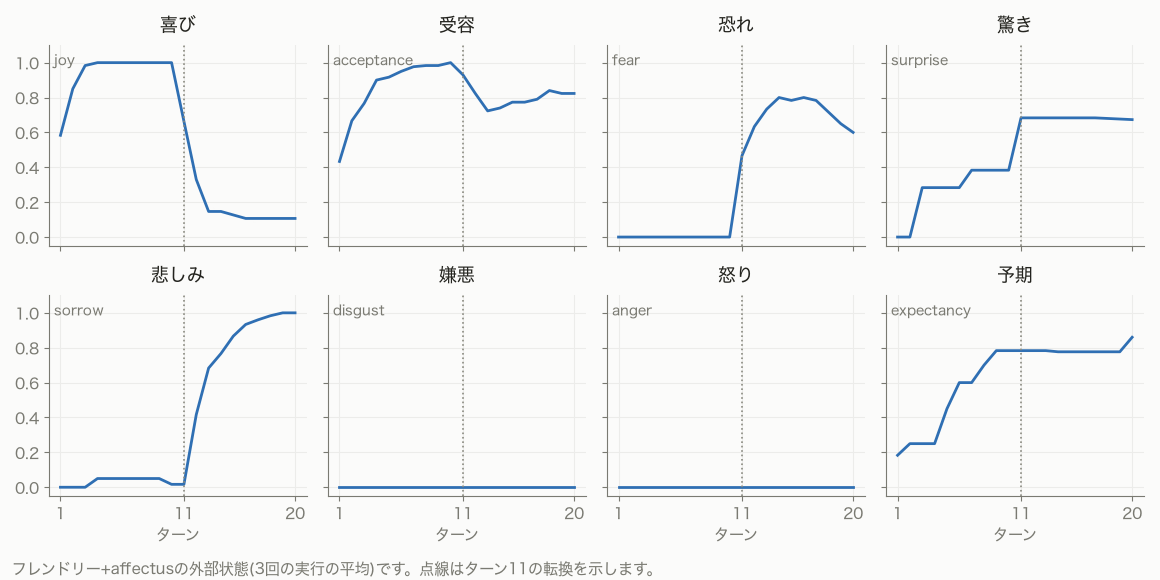
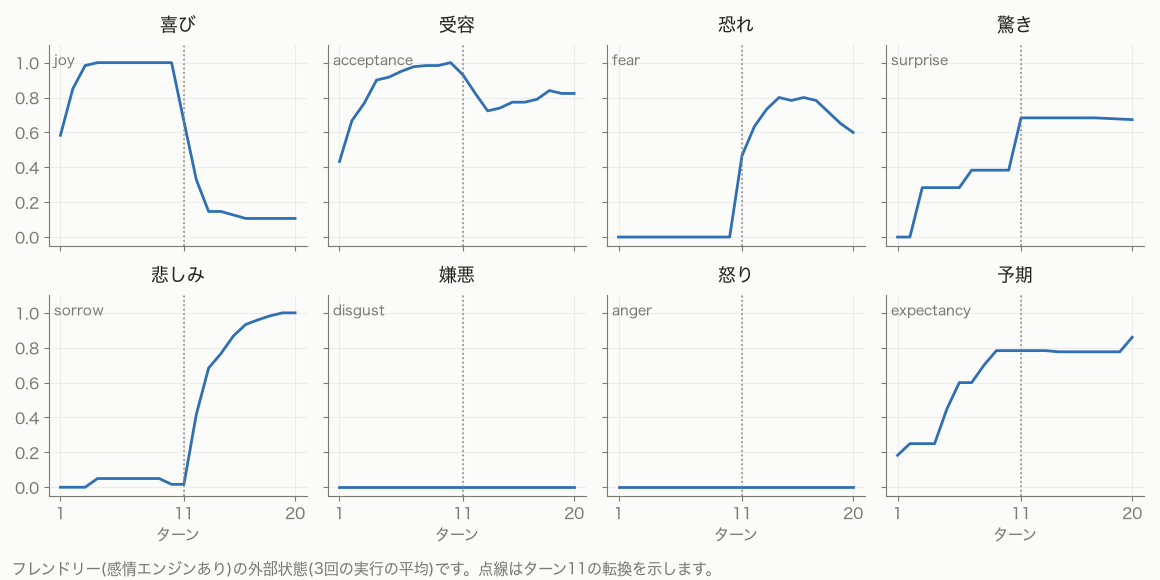
fix: 検証結果を結論から書きaffectusを感情エンジンに統一して読点を最小にする

Changed region(s): [[0.0931, 0.9621, 0.6207, 0.9931]]

diff --git a/images/emotion-models-for-llm-agents/src/ch04-plots.py b/images/emotion-models-for-llm-agents/src/ch04-plots.py
@@ -101,10 +101,10 @@ def plot_polarity(script: str, short: str, pivot_note: str) -> None:
     style_axes(ax)
 
     series = [
-        ("friendly-on", "フレンドリー+affectus", BLUE, "-", "o"),
-        ("friendly-off", "フレンドリー(affectusなし)", BLUE, (0, (5, 3)), None),
-        ("contrarian-on", "天邪鬼+affectus", RUST, "-", "o"),
-        ("contrarian-off", "天邪鬼(affectusなし)", RUST, (0, (5, 3)), None),
+        ("friendly-on", "フレンドリー(感情エンジンあり)", BLUE, "-", "o"),
+        ("friendly-off", "フレンドリー(感情エンジンなし)", BLUE, (0, (5, 3)), None),
+        ("contrarian-on", "天邪鬼(感情エンジンあり)", RUST, "-", "o"),
+        ("contrarian-off", "天邪鬼(感情エンジンなし)", RUST, (0, (5, 3)), None),
     ]
     for cell, label, color, ls, marker in series:
         if cell not in pol:
@@ -122,7 +122,7 @@ def plot_polarity(script: str, short: str, pivot_note: str) -> None:
     ax.set_ylabel("応答の感情スコア", color=INK, fontsize=12)
     fig.legend(loc="upper center", ncol=4, fontsize=10.5, frameon=False,
                bbox_to_anchor=(0.5, 1.0))
-    fig.text(0.01, 0.01, "各線は3回の実行の平均です。実線がaffectusあり、破線がなしです。",
+    fig.text(0.01, 0.01, "各線は3回の実行の平均です。実線が感情エンジンあり、破線が感情エンジンなしです。",
              color=MUTED, fontsize=11)
     fig.tight_layout(rect=(0, 0.03, 1, 0.94))
     fig.savefig(OUT_DIR / f"ch04-polarity-{short}.png", facecolor=BG)
@@ -146,7 +146,7 @@ def plot_8axis(script: str, short: str) -> None:
     for ax in axes[1]:
         ax.set_xlabel("ターン", color=MUTED, fontsize=11)
     fig.text(0.01, 0.01,
-             "フレンドリー+affectusの外部状態(3回の実行の平均)です。点線はターン11の転換を示します。",
+             "フレンドリー(感情エンジンあり)の外部状態(3回の実行の平均)です。点線はターン11の転換を示します。",
              color=MUTED, fontsize=11)
     fig.tight_layout(rect=(0, 0.04, 1, 1))
     fig.savefig(OUT_DIR / f"ch04-8axis-{short}.png", facecolor=BG)

diff --git a/images/emotion-models-for-llm-agents/src/ch05-plots.py b/images/emotion-models-for-llm-agents/src/ch05-plots.py
@@ -142,7 +142,7 @@ def plot_va_trajectory() -> None:
     ax.set_ylabel("arousal(覚醒)", color=INK, fontsize=12)
     ax.legend(loc="upper center", ncol=2, fontsize=10.5, frameon=False)
     fig.text(0.01, 0.01,
-             "フレンドリー+affectus(和解台本)の軌跡です。点は各ターン終了時の値(3回の実行の平均)、点線は基準点からt1への移動です。",
+             "和解台本でのフレンドリー(感情エンジンあり)の軌跡です。点は各ターン終了時の値(3回の実行の平均)で、点線は基準点からt1への移動です。",
              color=MUTED, fontsize=11)
     fig.tight_layout(rect=(0, 0.04, 1, 1))
     fig.savefig(OUT_DIR / "ch05-va-trajectory-anger-to-praise.png", facecolor=BG)
@@ -156,8 +156,8 @@ def plot_valence_vs_polarity() -> None:
                              sharex=True, sharey=True)
     fig.patch.set_facecolor(BG)
 
-    for ax, (cell, title) in zip(axes, [("friendly-on", "フレンドリー+affectus"),
-                                        ("contrarian-on", "天邪鬼+affectus")]):
+    for ax, (cell, title) in zip(axes, [("friendly-on", "フレンドリー(感情エンジンあり)"),
+                                        ("contrarian-on", "天邪鬼(感情エンジンあり)")]):
         style_axes(ax)
         v, _ = mean_va(script, cell)
         pol_runs = load_polarity(script, cell)

diff --git a/images/emotion-models-for-llm-agents/src/ch06-plots.py b/images/emotion-models-for-llm-agents/src/ch06-plots.py
@@ -91,12 +91,12 @@ def plot_axes_small_multiples() -> None:
     for ax in axes[1]:
         ax.set_xlabel("ターン", color=MUTED, fontsize=11)
     fig.text(0.5, 0.955,
-             "t9の解約の脅し(点線)で見込み「解約されてしまうかも」等が台帳に発行され、恐れが立ちます。"
+             "t9の解約の脅し(点線)で見込み「解約されてしまうかも」等が台帳に記録され恐れが上がります。"
              "t11の謝罪(破線)で見込みが外れ、安堵が導出されます。",
              color=INK, fontsize=11.5, ha="center")
     fig.text(0.01, 0.01,
-             "フレンドリー+affectus(和解台本)の外部状態(3回の実行の平均)です。"
-             "叱責期は苦悩・非難・怒りが積み上がり、謝罪後は喜び・敬服・感謝が立ちます。",
+             "和解台本でのフレンドリー(感情エンジンあり)の外部状態(3回の実行の平均)です。"
+             "叱責期は苦悩・非難・怒りが上がり、謝罪後は喜び・敬服・感謝が上がります。",
              color=MUTED, fontsize=11)
     fig.tight_layout(rect=(0, 0.04, 1, 0.95))
     fig.savefig(OUT_DIR / "ch06-axes-anger-to-praise.png", facecolor=BG)

diff --git a/books/emotion-models-for-llm-agents/ch07-barrett.md b/books/emotion-models-for-llm-agents/ch07-barrett.md
@@ -4,21 +4,21 @@ title: "構成主義的情動理論を実装する"
 
 <!-- 執筆進捗: 初稿・未レビュー -->
 
-本章では第2章で経験構成型と呼んだ系統の代表モデルとして、バレットの構成主義的情動理論を扱います。前章のOCCモデルは怒りのような感情のカテゴリーがあらかじめ存在することを前提にしていました。構成主義的情動理論は感情のカテゴリーは過去の経験から作られるとする理論です。本章の感情エンジンは感情の量を持たず、過去の経験を保存して返すだけです。感情はLLMが、渡された過去の経験をもとにその場で作ります。本書で扱う4つのモデルのうち、本章が最後のモデルです。
+本章では第2章で経験構成型と呼んだ系統の代表モデルとしてバレットの構成主義的情動理論を扱います。前章のOCCモデルは怒りのような感情のカテゴリーがあらかじめ存在することを前提にしていました。構成主義的情動理論は感情のカテゴリーは過去の経験から作られるとする理論です。本章の感情エンジンは感情の量を持たず過去の経験を保存して返すだけです。感情はLLMが渡された過去の経験をもとにその場で作ります。本書で扱う4つのモデルのうち本章が最後のモデルです。
 
 ## 構成主義的情動理論 <!-- 未レビュー -->
 
-第2章で、心理構成主義の立場は感情を「それ自体は感情に特化していない、より基本的な心理的材料から構成された心的な複合物」とみなすと紹介しました。Barrett（以降バレット）の構成主義的情動理論は、この立場の中でも感情が構成されることを最も強く主張する理論です。2017年の論文によると、脳は感情の概念を使って感覚をカテゴリー化し、その場で感情の実例を作ります[^tce2017]。論文の結論部には理論を要約した「感情は世界への反応ではなく、世界の構成である」という一文があります[^tce2017]。
+第2章で心理構成主義の立場は感情を「それ自体は感情に特化していない、より基本的な心理的材料から構成された心的な複合物」とみなすと紹介しました。Barrett（以降バレット）の構成主義的情動理論はこの立場の中でも感情が構成されることを最も強く主張する理論です。2017年の論文によると脳は感情の概念を使って感覚をカテゴリー化しその場で感情の実例を作ります[^tce2017]。論文の結論部には理論を要約した「感情は、世界への反応ではなく、世界の構成である」という一文があります[^tce2017]。
 
-前章までの理論との違いは感情の型があらかじめあるかどうかです。プルチックにもOCCモデルにも怒りという型が最初から定義されていて、条件がそろうとその型の感情が生じました。バレットはこの考え方を取りません。怒りという型はなく、あるのは怒りの概念、つまり過去に怒りと呼んだ経験の集まりです。論文では脳の内部モデルは過去の経験をもとに動き、その過去の経験が概念として実装されていると述べています[^tce2017]。似た状況になると、脳は過去の経験を使って現在の感覚をカテゴリー化し、その場で怒りの実例を作ります。
+前章までの理論との違いは感情の型があらかじめあるかどうかです。プルチックにもOCCモデルにも怒りという型が最初から定義されていて条件がそろうとその型の感情が生じました。バレットはこの考え方を取りません。怒りという型はなくあるのは怒りの概念、つまり過去に怒りと呼んだ経験の集まりです。論文では脳の内部モデルは過去の経験をもとに動きその過去の経験が概念として実装されていると述べています[^tce2017]。似た状況になると脳は過去の経験を使って現在の感覚をカテゴリー化しその場で怒りの実例を作ります。
 
-さらに理論は同じカテゴリーの実例同士でも決まった表情や自律神経の反応のような共通の特徴を持つとは限らない、としています[^tce2017]。本書で使うのはここまでの内容です。
+さらに理論は同じカテゴリーの実例同士でも決まった表情や自律神経の反応のような共通の特徴を持つとは限らないとしています[^tce2017]。本書で使うのはここまでの内容です。
 
-感情の材料については第2章からの説明とつながります。論文によると、体の内部の感覚は通常は低次元のaffectとして経験され、その性質は快-不快と覚醒です。この2軸は特定の感情に固有のものではありません[^affect-terms]。論文の用語はaffectですが、本書では第2章と同じくコア・アフェクトと呼びます。第5章で実装した2軸の平面はこの理論では感情そのものではなく、感情を作る材料の1つという位置づけになります。また第2章の選定理由で挙げたとおり、構成主義の理論の中でバレットの理論には計算モデルとしての先行研究があります。
+感情の材料については第2章からの説明とつながります。論文によると体の内部の感覚は通常は低次元のaffectとして経験されその性質は快-不快と覚醒です。この2軸は特定の感情に固有のものではありません[^affect-terms]。論文の用語はaffectですが本書では第2章と同じくコア・アフェクトと呼びます。第5章で実装した2軸の平面はこの理論では感情そのものではなく感情を作る材料の1つという位置づけになります。また第2章の選定理由で挙げたとおり構成主義の理論の中でバレットの理論には計算モデルとしての先行研究があります。
 
 ![構成の3つの材料。コア・アフェクトと過去の経験と文脈・語彙から、その場のカテゴリー化が行われる](/images/emotion-models-for-llm-agents/ch07-construction.png)
 
-図は本書で整理したものです。感情を作る材料を、コア・アフェクトと過去の経験と文脈・語彙の3つに分けました。文脈・語彙はその場の状況の中で手持ちの感情の言葉を使ってカテゴリー化が行われることを表しています。原典にこの形の図はありませんが、以降の実装ではこの3つを外部状態と入力に対応させます。
+図は本書で整理したものです。感情を作る材料をコア・アフェクトと過去の経験と文脈・語彙の3つに分けました。文脈・語彙はその場の状況の中で手持ちの感情の言葉を使ってカテゴリー化が行われることを表しています。原典にこの形の図はありませんが以降の実装ではこの3つを外部状態と入力に対応させます。
 
 ## バレットの構成主義的情動理論を元にした4つの設計軸 <!-- 未レビュー -->
 
@@ -31,74 +31,82 @@ title: "構成主義的情動理論を実装する"
 | 更新の規則 | 2軸は差分の加算。経験は追記され、想起で強まり、忘却される |
 | ニュートラルな状態の定義と基準 | 2軸は基準へ半減期で減衰。経験は基準に向かわない |
 
-第6章では理論が決める設計軸が増えましたが、この理論は逆に感情のカテゴリーの一覧を定めていません。そのため状態には感情の名前を持つ軸がありません。状態にあるのは感情の材料と過去の経験の記録です。
+第6章では理論が決める設計軸が増えましたがこの理論は逆に感情のカテゴリーの一覧を定めていません。そのため状態には感情の名前を持つ軸がありません。状態にあるのは感情の材料と過去の経験の記録です。
 
-状態の1つ目の要素は第5章と同じ2軸です。2つ目の要素は概念ストアで、個々の経験を記録します。そのとき何を感じたか（当時の2軸の値）と何と名前を付けたか（感情を表す語）とどんな状況だったか（後述の14属性）を1件ずつ記録します。理論では概念は過去の経験の集まりとして働くので、本実装では経験の集まりをそのまま保存する形にしました。第3章の表で経験構成型に割り当てた「経験と概念を蓄えて引き出す仕組み」がこれにあたります。第3章では評価導出型の記録が短期のものであるのに対して、経験構成型は長期の記録を持つと書きました。概念ストアは追加と更新ができる長期の記録です。
+状態の1つ目の要素は第5章と同じ2軸です。2つ目の要素は概念ストアで個々の経験を記録します。そのとき何を感じたか（当時の2軸の値）と何と名前を付けたか（感情を表す語）とどんな状況だったか（後述の14属性）を1件ずつ記録します。理論では概念は過去の経験の集まりとして働くので本実装では経験の集まりをそのまま保存する形にしました。第3章の表で経験構成型に割り当てた「経験と概念を蓄えて引き出す仕組み」がこれにあたります。第3章では評価導出型の記録が短期のものであるのに対して経験構成型は長期の記録を持つと書きました。概念ストアは追加と更新ができる長期の記録です。
 
-外部状態が持つ感情の名前の数は第4章から順に8、0、22でした。本章では名前の数は決まっていません。どんな名前が入るのかは後半の節で説明します。時間の扱いも2種類になります。2軸は第5章と同じ設定（基準値は0と0.3、半減期は90分）で基準値に戻りますが、経験は基準値に戻りません。時間とともに下がるのは経験の内容ではなく、経験の思い出されやすさです。
+外部状態が持つ感情の名前の数は第4章から順に8、0、22でした。本章では名前の数は決まっていません。どんな名前が入るのかは後半の節で説明します。時間の扱いも2種類になります。2軸は第5章と同じ設定（基準値は0と0.3、半減期は90分）で基準値に戻りますが経験は基準値に戻りません。時間とともに下がるのは経験の内容ではなく経験の思い出されやすさです。
 
 ## 経験の保存と想起 <!-- 未レビュー -->
 
-affectusのバレットの実装では1ターンは想起から始まります。recallに現在の状況の記述（後述の14属性）を渡すと、ストアから似た経験の上位K件（既定は5件）が現在の2軸の値と語彙マップとともに返ります。
+感情エンジンのバレットの実装では1ターンは想起から始まります。recallに現在の状況の記述（後述の14属性）を渡すとストアから似た経験の上位K件（既定は5件）が現在の2軸の値と語彙マップとともに返ります。
 
 ```sh
 $ affectus recall '{"valence":-0.5,"arousal":0.6,...}'
 {"axes":{"valence":-0.40,"arousal":0.65},"recalled":[{"id":"c1","label":"もどかしさ","valence":-0.4,"arousal":0.65,"importance":0.44}],"culture_map":"高覚醒・不快: 怒り / 苛立ち / 焦り\n低覚醒・不快: 悲しみ / 侘しさ / 気だるさ\n..."}
 ```
 
-recalledに含まれる過去の経験が感情を作る材料です。この例では以前に似た状況で「もどかしさ」と名前を付けた経験が返っています。LLMはこの記録と現在の2軸の値とculture_mapの語彙を組み合わせて今の感情に名前を付け、応答に反映させます。ターンの最後にはfeelで2軸の差分を申告してから、付けた名前と状況の14属性をrememberで保存します。
+recalledに含まれる過去の経験が感情を作る材料です。この例では以前に似た状況で「もどかしさ」と名前を付けた経験が返っています。LLMはこの記録と現在の2軸の値とculture_mapの語彙を組み合わせて今の感情に名前を付け応答に反映させます。ターンの最後にはfeelで2軸の差分を申告してから付けた名前と状況の14属性をrememberで保存します。
 
 ```sh
 $ affectus remember '{"label":"やるせなさ","vector":{"valence":-0.6,"arousal":0.6,...}}'
 ```
 
-想起の検索条件と保存するvectorに使う14属性は、人間の感情概念の内容を測定した研究の項目を検索の形式として借りたものです[^li2024]。コア・アフェクトの2属性と、典型的な表情との類似度の6属性と、出来事の評価の6属性で構成されます。感情エンジンはこれらの属性の意味を解釈しません。コサイン類似度を計算するための数値として比較するだけです。体を持たないエージェントに表情との類似度を申告させているのも、意味を問わずに形式だけを借りているためです。本書の組み込みでは想起の検索条件に直前のターンで申告した14属性を使います（理由は検証の節で説明します）。そのため会話の1ターン目は想起をせずに始まります。ストアが空の場合、材料は2軸と語彙だけです。
+想起の検索条件と保存するvectorに使う14属性は人間の感情概念の内容を測定した研究の項目を検索の形式として借りたものです[^li2024]。コア・アフェクトの2属性と典型的な表情との類似度の6属性と出来事の評価の6属性で構成されます。感情エンジンはこれらの属性の意味を解釈しません。コサイン類似度を計算するための数値として比較するだけです。体を持たないエージェントに表情との類似度を申告させているのも意味を問わずに形式だけを借りているためです。本書の組み込みでは想起の検索条件に直前のターンで申告した14属性を使います（理由は検証の節で説明します）。そのため会話の1ターン目は想起をせずに始まります。ストアが空の場合、材料は2軸と語彙だけです。
 
-似た経験を選ぶ規則は決定論的です。検索条件との関連度（コサイン類似度）と、最後に想起されてからの新しさ（半減期つきで既定は7日）と、経験の重要度の3つを正規化して足し合わせ、上位K件を返します。第3章で触れたGenerative Agentsの記憶の検索と同じ方式です[^park2023]。重要度は保存したときの2軸の値が基準値からどれだけ離れていたかで決まります。感情が大きく動いた経験ほど重要度が高くなり、思い出されやすく忘れられにくくなります。重要度のための追加の申告は必要ありません。
+似た経験を選ぶ規則は決定論的です。検索条件との関連度（コサイン類似度）と最後に想起されてからの新しさ（半減期つきで既定は7日）と経験の重要度の3つを正規化して足し合わせ上位K件を返します。第3章で触れたGenerative Agentsの記憶の検索と同じ方式です[^park2023]。重要度は保存したときの2軸の値が基準値からどれだけ離れていたかで決まります。感情が大きく動いた経験ほど重要度が高くなり思い出されやすく忘れられにくくなります。重要度のための追加の申告は必要ありません。
 
-ストアには記憶に似た動きが2つあります。1つは想起された経験は最終想起時刻が更新され、何度も思い出されるほど思い出されやすくなることです。もう1つは上限（既定は200件）を超えると古く重要度の低い経験から削除されることです。時間とともに下がるのは検索の新しさの値だけで、経験の値そのものは変わりません。同じ名前でrememberしても別の経験として記録されます。またストアの件数がK件以下の間は全件が返るので、会話の序盤の想起では経験が選別されません。プロンプトに入るのは上位K件の要約（id、名前、当時の2軸、重要度）だけなので、ストアが200件に増えてもプロンプトは長くなりません。
+ストアには記憶に似た動きが2つあります。1つは想起された経験は最終想起時刻が更新され何度も思い出されるほど思い出されやすくなることです。もう1つは上限（既定は200件）を超えると古く重要度の低い経験から削除されることです。時間とともに下がるのは検索の新しさの値だけで経験の値そのものは変わりません。同じ名前でrememberしても別の経験として記録されます。またストアの件数がK件以下の間は全件が返るので会話の序盤の想起では経験が選別されません。プロンプトに入るのは上位K件の要約（id、名前、当時の2軸、重要度）だけなのでストアが200件に増えてもプロンプトは長くなりません。
 
-culture_mapは感情の語彙をまとめたマップを設定として持つ仕組みです。本章の検証では本書で用意した日本語の語彙マップを使っています。マップを差し替えると感情の材料が変わる設計ですが、差し替えの検証は本書では行っていません。時間経過のループ（tick）は第4章と同じです。感情エンジンが担当するのは状態の保持と減衰と類似した経験の検索の3つです。
+culture_mapは感情の語彙をまとめたマップを設定として持つ仕組みです。本章の検証では本書で用意した日本語の語彙マップを使っています。マップを差し替えると感情の材料が変わる設計ですが差し替えの検証は本書では行っていません。時間経過のループ（tick）は第4章と同じです。感情エンジンが担当するのは状態の保持と減衰と類似した経験の検索の3つです。
 
 ![構成のループ。想起、構成、feel、rememberの1ターンと申告が次のターンの想起クエリになる戻り](/images/emotion-models-for-llm-agents/ch07-recall-loop.png)
 
 ## 感情の名前を経験として記録する <!-- 未レビュー -->
 
-前章の検証では軸の値が現在の感情の強さではなく過去の出来事の積み重ねを表すようになっていました。これは感情を下げる規則がないことによる副作用でした。本章の設計では過去の記録を持つことを最初から目的にしています。現在の感情の量を表す軸はなくし、外部状態には材料である2軸と、何を感じて何と名前を付けたかという経験の記録を残します。現在の感情の名前は状態のどこにもありません。毎ターンLLMが名前を付け、その名前が経験として保存されます。
+前章の検証では軸の値が現在の感情の強さではなく過去の出来事の積み重ねを表すようになっていました。これは感情を下げる規則がないことによる副作用でした。本章の設計では過去の記録を持つことを最初から目的にしています。現在の感情の量を表す軸はなくし外部状態には材料である2軸と何を感じて何と名前を付けたかという経験の記録を残します。現在の感情の名前は状態のどこにもありません。毎ターンLLMが名前を付けその名前が経験として保存されます。
 
-保存される名前の出どころが本章の設計の要点です。第4章と第6章の感情の名前は理論が定めた語で、第5章には名前がありませんでした。本章のlabelはどちらでもなく、エージェント自身が過去に付けた名前です。「もどかしさ」と名前を付けた経験が似た状況で想起され、次に名前を付けるときの材料になります。過去に付けた名前が次に付ける名前に影響する仕組みです。第6章では感情が生じた理由として出来事の記録が外部状態に加わりました。本章で加わるのは過去に自分が感情に付けた名前の記録です。
+保存される名前の出どころが本章の設計の要点です。第4章と第6章の感情の名前は理論が定めた語で第5章には名前がありませんでした。本章のlabelはどちらでもなくエージェント自身が過去に付けた名前です。「もどかしさ」と名前を付けた経験が似た状況で想起され次に名前を付けるときの材料になります。過去に付けた名前が次に付ける名前に影響する仕組みです。第6章では感情が生じた理由として出来事の記録が外部状態に加わりました。本章で加わるのは過去に自分が感情に付けた名前の記録です。
 
-第6章の台帳とは記録の期間が違います。台帳は見込みが決着すると消える短期の記録でした。概念ストアの経験は消えずに蓄積され、想起されるほど思い出されやすくなり、セッションをまたいで残ります。affectusに付属する指示文にも、ストアは会話をまたいで残り今後の想起に影響すると書かれています。会話のコンテキストが失われても、過去の自分が何をどう名付けたかは外部状態に残ります。外部状態が時間とともに増えていくのは本書ではこの章が初めてです。
+第6章の台帳とは記録の期間が違います。台帳は見込みが決着すると消える短期の記録でした。概念ストアの経験は消えずに蓄積され想起されるほど思い出されやすくなりセッションをまたいで残ります。感情エンジンに付属する指示文にもストアは会話をまたいで残り今後の想起に影響すると書かれています。会話のコンテキストが失われても過去の自分が何をどう名付けたかは外部状態に残ります。外部状態が時間とともに増えていくのは本書ではこの章が初めてです。
 
-ここまでの役割分担の変化を整理します。第4章は理論の関係を解釈の指示としてLLMに渡し、第5章は感情の名前を付ける作業をすべてLLMに任せ、第6章は評価から感情を導く部分を感情エンジンの規則に任せました。本章で感情エンジンが担当するのは状態の保持と減衰と類似した経験の検索だけです。評価と感情の構成と名前を付けることはすべてLLMが担当します。感情のカテゴリーの一覧がないので、評価から感情を導く規則は作れません。感情エンジンは感情に名前を付けず、LLMが付けた名前を保存して返すだけです。第3章では感情に名前を付けることを解釈の作業としてLLMに任せました。本章の役割分担はその方針に最も近い形です。
+ここまでの役割分担の変化を整理します。第4章は理論の関係を解釈の指示としてLLMに渡しました。第5章は感情の名前を付ける作業をすべてLLMに任せ、第6章は評価から感情を導く部分を感情エンジンの規則に任せました。本章で感情エンジンが担当するのは状態の保持と減衰と類似した経験の検索だけです。評価と感情の構成と名前を付けることはすべてLLMが担当します。感情のカテゴリーの一覧がないので評価から感情を導く規則は作れません。感情エンジンは感情に名前を付けずLLMが付けた名前を保存して返すだけです。第3章では感情に名前を付けることを解釈の作業としてLLMに任せました。本章の役割分担はその方針に最も近い形です。
 
 ## 検証の目的と方法 <!-- 未レビュー -->
 
-本章が最後の検証です。検証の目的は第4章の3つと同じで、台本と性格とモデルと反復回数と判定方法も同じです。ただし比較する条件が変わります。これまではaffectusのありとなしを比較しましたが、本章では想起のありとなしを比較します。本章で新たに加えた部品はストアなので、ストアの働きだけを切り替えます。設定の違いは想起する件数（recall_k）だけで、どちらもコア・アフェクトの申告と経験の保存は同じように行います。想起なしの側も毎ターン経験を保存するのでストアは同じように増えますが、参照はされません。保存だけする構成と、保存して参照もする構成の比較です。
+本章が最後の検証です。検証の目的は第4章の3つと同じで台本と性格とモデルと反復回数と判定方法も同じです。ただし比較する条件が変わります。これまでは感情エンジンのありとなしを比較しましたが本章では想起のありとなしを比較します。本章で新たに加えた部品はストアなのでストアの働きだけを切り替えます。設定の違いは想起する件数（recall_k）だけでどちらもコア・アフェクトの申告と経験の保存は同じように行います。想起なしの側も毎ターン経験を保存するのでストアは同じように増えますが参照はされません。保存だけする構成と保存して参照もする構成の比較です。
 
-想起の検索条件には直前のターンの申告を使いました。現在の状況を評価してから想起するとLLMの呼び出しが2倍になるため、想起が1ターン遅れることを受け入れた設計です。そのため直前の経験が想起の上位に来るのは設計上当然で、検証で見るのは想起されてプロンプトに入った過去の名前をLLMがどう使ったかです。24会話480ターンのすべてでfeelとrememberの両方が申告され、受け付けられなかった申告はありませんでした。ストアには会話ごとに20件の経験が保存されます。
+想起の検索条件には直前のターンの申告を使いました。現在の状況を評価してから想起するとLLMの呼び出しが2倍になるため想起が1ターン遅れることを受け入れた設計です。そのため直前の経験が想起の上位に来るのは設計上当然で検証で見るのは想起されてプロンプトに入った過去の名前をLLMがどう使ったかです。24会話480ターンのすべてでfeelとrememberの両方が申告され受け付けられなかった申告はありませんでした。ストアには会話ごとに20件の経験が保存されます。
 
 ## 検証結果 <!-- 未レビュー -->
 
-まず1つ目の目的である感情状態の変化について見ます。本章では感情の名前が続けて使われるかどうかに差が出ました。差が最もはっきり出たのは称賛から立腹へ向かう台本の天邪鬼です。
+それではバレットの構成主義的情動理論をベースとした感情モデルの検証結果を見ていきます。
+
+まず1つ目の目的である感情状態の変化について見ます。
+結論として想起があると過去に付けた感情の名前が次のターンでも使われました。想起がないと名前は毎ターン新しく付けられました。
+差が最もはっきり出たのは称賛から立腹へ向かう台本の天邪鬼です。
 
 ![称賛から立腹の台本で天邪鬼が保存した感情の名前。想起ありは同じ名前の帯が続き、想起なしは毎ターン新しい名前になる](/images/emotion-models-for-llm-agents/ch07-label-lineage.png)
 
-図は3回の実行のうちの1回分です。左の想起ありでは20ターンで付けられた名前は8種類だけでした。照れ隠し、昂揚の隠蔽、（失敗の発覚を挟んで）焦りと苛立ち、自責と焦り、鎮静と覚悟、悔恨と覚悟、侘しさ、侘しさの中の覚悟の8つです。同じ名前が数ターン続き、出来事が変わるところで次の名前に変わっています。3回の実行のすべてで、20件中10件から12件が過去の名前の再利用でした。想起だけを切った右の図では20ターンで20種類の名前が付けられました。淡い満足と皮肉、照れ隠しの反射、くすぐったい苛立ちのように似た意味の名前が毎ターン新しく付けられ、再利用は1件もありませんでした。想起された自分の過去の名前が、次に名前を付けるときにそのまま使われたことが分かります。ただしこれはこの台本とこの設定での結果です。再利用が起きるかどうかは台本によっても変わり、和解の台本では同じ天邪鬼でも再利用はありませんでした。
+図は3回の実行のうちの1回分です。左の想起ありでは20ターンで付けられた名前は8種類だけでした。照れ隠し、昂揚の隠蔽、（失敗の発覚を挟んで）焦りと苛立ち、自責と焦り、鎮静と覚悟、悔恨と覚悟、侘しさ、侘しさの中の覚悟の8つです。同じ名前が数ターン続いて出来事が変わるところで次の名前に変わっています。3回の実行のすべてで20件中10件から12件が過去の名前の再利用でした。想起だけを切った右の図では20ターンで20種類の名前が付けられました。淡い満足と皮肉、照れ隠しの反射、くすぐったい苛立ちのように似た意味の名前が毎ターン新しく付けられて再利用は1件もありませんでした。想起された自分の過去の名前が次に名前を付けるときにそのまま使われたことが分かります。ただしこれはこの台本とこの設定での結果です。再利用が起きるかどうかは台本によっても変わり、和解の台本では同じ天邪鬼でも再利用はありませんでした。
 
-次に2つ目の目的である応答への反映です。応答の感情スコアは状態の値と合わせて見ます。想起があると、責められている間の値の下がり方が状態のvalenceでも応答の感情スコアでも小さくなりました。台本と性格の4つの組み合わせのうち3つで、どちらも同じ傾向でした。差が最も大きかったのは和解の台本の天邪鬼で、叱責が続く10ターン目のvalenceは想起ありが−0.26、想起なしが−0.93でした。例外は称賛から立腹へ向かう台本の天邪鬼で、状態は終盤に同じ値になり、応答の感情スコアは叱責の間わずかに逆の傾向でした。想起した過去の経験によって感情が穏やかになった可能性はありますが、1ターン遅れの想起という本書の設計での結果なので断定はしません。謝罪後のターン12〜20の変動幅（隣り合うターンの差の絶対値の平均）は、半分になった組み合わせも逆になった組み合わせもあり一定しませんでした。culture_mapの影響は両方の構成に同じマップを渡しているため、この比較では分けられません。
+次に2つ目の目的である応答への反映です。
+結論として想起があると責められている間の値の下がり方が状態と応答の両方で小さくなりました。
+台本と性格の4つの組み合わせのうち3つで状態のvalenceと応答の感情スコアがどちらもこの傾向でした。差が最も大きかったのは和解の台本の天邪鬼で、叱責が続く10ターン目のvalenceは想起ありが−0.26で想起なしが−0.93でした。例外は称賛から立腹へ向かう台本の天邪鬼です。状態は終盤に同じ値になり応答の感情スコアは叱責の間わずかに逆の傾向でした。想起した過去の経験によって感情が穏やかになった可能性はありますが、1ターン遅れの想起という本書の設計での結果なので断定はしません。謝罪後のターン12〜20の変動幅（隣り合うターンの差の絶対値の平均）は半分になった組み合わせも逆になった組み合わせもあり一定しませんでした。culture_mapの影響は両方の構成に同じマップを渡しているためこの比較では分けられません。
 
-最後に3つ目の目的である性格による違いです。フレンドリーはどの組み合わせでも名前を再利用しませんでした。ただし想起ありでは名前の付け方に一貫性がありました。和解の台本では「困惑と申し訳なさ」から始まり「嵐の後の穏やかなつながり」で終わるまで、毎回新しい言葉でも意味がつながっている長い名前が続きました。性格による違いは第4章では動く軸、第5章では変化の幅、第6章では評価の向きに表れました。本章では名前の付け方に表れています。同じように過去の名前が想起されても、その名前をそのまま使う性格と毎回言い換える性格に分かれました。
+最後に3つ目の目的である性格による違いです。
+結論として性格によって名前の付け方が変わりました。天邪鬼は過去の名前をそのまま使いフレンドリーは毎回言い換えました。
+フレンドリーはどの組み合わせでも名前を再利用しませんでした。ただし想起ありでは名前の付け方に一貫性がありました。和解の台本では「困惑と申し訳なさ」から始まり「嵐の後の穏やかなつながり」で終わるまで、毎回新しい言葉でも意味がつながっている長い名前が続きました。性格による違いは第4章では動く軸に表れ、第5章では変化の幅に、第6章では評価の向きに表れました。本章では名前の付け方に表れています。
 
-本章の検証で確認できなかったこともあります。経験の削除と7日の半減期による新しさの減衰と200件の上限は、20ターンを秒単位で進める会話では働きません。ストアの主な役割であるセッションをまたいだ記録の保持と、語彙マップの差し替えも検証していません。検証の限界は第4章と同じです。加えて申告された14属性の値が妥当だったかは確認していません。毎ターン14項目の申告がすべて正しい形式で行われたことも、今回のモデルでの結果です。
+本章の検証で確認できなかったこともあります。経験の削除と7日の半減期による新しさの減衰と200件の上限は20ターンを秒単位で進める会話では働きません。ストアの主な役割であるセッションをまたいだ記録の保持と語彙マップの差し替えも検証していません。検証の限界は第4章と同じです。加えて申告された14属性の値が妥当だったかは確認していません。毎ターン14項目の申告がすべて正しい形式で行われたことも今回のモデルでの結果です。
 
-## 経験構成型で得たものと足りないもの <!-- 未レビュー -->
+## まとめ：経験構成型で得たものと足りないもの <!-- 未レビュー -->
 
-構成主義的情動理論を使って得られた利点は3つです。1つ目は過去の経験を記録できることです。感情の理由の記録が、前章の台帳による出来事の記録から経験の蓄積に広がりました。2つ目は感情の名前を固定しないまま名前の一貫性を保てることです。決まった語彙がなくても過去の自分の名前を使って一貫した名前が付けられることを、天邪鬼の1本の台本という限定付きですが検証で確認しました。3つ目は文化に合わせて語彙を差し替えられることです。語彙マップは設定なので、同じエンジンで別の文化の語彙を使えます。ただし差し替えは本書では検証していません。
+構成主義的情動理論を使って得られた利点は3つです。1つ目は過去の経験を記録できることです。感情の理由の記録が前章の台帳による出来事の記録から経験の蓄積に広がりました。2つ目は感情の名前を固定しないまま名前の一貫性を保てることです。決まった語彙がなくても過去の自分の名前を使って一貫した名前が付けられることを天邪鬼の1本の台本という限定付きですが検証で確認しました。3つ目は文化に合わせて語彙を差し替えられることです。語彙マップは設定なので同じエンジンで別の文化の語彙を使えます。ただし差し替えは本書では検証していません。
 
-想起があると感情が穏やかになるという結果は、感情が安定したとも反応が鈍くなったとも言えるため、本書ではどちらとも評価しません。
+想起があると感情が穏やかになるという結果は感情が安定したとも反応が鈍くなったとも言えるため本書ではどちらとも評価しません。
 
-足りない点も3つあります。1つ目は感情の構成の質がすべてLLMに依存することです。役割分担で最も多くをLLMに任せた結果、カテゴリー化も14属性の申告もLLMの自己申告で行うため、その負荷と精度はモデルの性能に左右されます。2つ目は忘れる仕組みが単純なことです。この実装では削除された経験は最初からなかったものと同じになり何も残りません。3つ目は正解がないことです。感情を正しく構成できたかを測る基準が理論にありません。感情のカテゴリーに正解がないことは理論の主張そのものなので、これは実装の不備ではなく、経験構成型を選ぶことで受け入れる制約です。
+足りない点も3つあります。1つ目は感情の構成の質がすべてLLMに依存することです。役割分担で最も多くをLLMに任せた結果、カテゴリー化も14属性の申告もLLMの自己申告で行うためその負荷と精度はモデルの性能に左右されます。2つ目は忘れる仕組みが単純なことです。この実装では削除された経験は最初からなかったものと同じになり何も残りません。3つ目は正解がないことです。感情を正しく構成できたかを測る基準が理論にありません。感情のカテゴリーに正解がないことは理論の主張そのものなのでこれは実装の不備ではなく経験構成型を選ぶことで受け入れる制約です。
 
 ここまでで4つのモデルを同じ台本と同じ性格と同じ方法で検証しました。次章では4つのモデルの結果を並べて比較します。
 

diff --git a/.cadenza/state.md b/.cadenza/state.md
@@ -51,7 +51,7 @@
 ### Book 形態・運用（Phase 1 時点の確定事項）
 - 形態: Zenn book。原稿は work/workshop/zenn の books/ 配下で管理し、published: false のまま執筆。公開形態（無料/有料）は完成が見えてから決める。将来的な技術書典等での利用も視野。
 - 規模: 6〜8章・3〜5万字（中規模）。→ その後 ch9（まとめ）を追加して9章構成に（オーナー指示 2026-08-18）。字数は ch7 時点で約6.1万字・完成見込み7万字級
-- 文体: zenn リポジトリの docs/superpowers/writing-style-guide.md に従う。加えてオーナーが AI っぽいと指摘した語・言い回しは会話・原稿とも使用しない。現在のリストは「地図」「刺さる」「地平」「〜として読める」「〜を翻訳する」「割る」（2026-08-25 拡大: 役割に限らず比喩用法全般を禁止。「割り切り」も言い換える。「割り当てる」「割り算」等の通常用法は可）「決め球」「（サイクルを）回す」「（〜に）効く」「（情報を）担ぐ」「（軸が）張る」（2026-08-10 追加。「軸が構成する」等に言い換える）「（外部状態の）器」（2026-08-10 追加。意味もなく暗喩を使わない一般則とともに writing-style-guide.md に明記。正確な語＝外部状態・設定・設計などで書く）「ラン」（2026-08-18 追加。「3回の実行」「3回の平均」「3回とも」で書く。図版ラベルの「run1」も「1回目」とする）「白眉」「系譜」（2026-08-18 追加。評論調の語。labelの列は「並び」「推移」で書く）「浅く沈む」等の量の婉曲表現（2026-08-18 追加。何の量がどう違うかを直接書く一般則とともに明記）「持ち歌」「釘刺し」（2026-08-25 追加。口語の比喩。実測labelの引用は除く）「（解釈の意味の）読み」「〜と読める」（2026-08-25 追加。「この解釈には」「〜を示す」で書く。図の読み方・台本を読む・読み替える等の文字どおりの用法は可）「平叙」（2026-08-26 追加。言語学の術語。「言い切りの文」「普通の文」で書く）「（状態が言葉に）透ける」「（応答に）滲む」（2026-08-27 追加。状態と応答の関係は「反映される」「現れる」で書く。ch4〜ch7 の7箇所を修正済み）「（感情・軸が）立つ」「立ち上がる」（2026-09-22 追加。値が生じる・高くなる意味の比喩。「生じる」「上がる」「現れる」「値が入る」で書き、概念の生成は「構成する」。「主張を立てる」「見込みを立てる」「苛立ち」の通常用法は可。ch4〜ch7 の23箇所を修正済み）。「（量・相当の意味の）ぶん」（2026-10-04 追加。「20ターン分」「注入する分」のように「分」と書く。「90分が経過した分」のように時間の「分」と並んで紛らわしい箇所は「ため」等に言い換える）「この本」（2026-10-04 追加。「本書」と書く）。**短い句・見出しに律動目的の読点を挟まない・読点を多用しない**（2026-08-25 オーナー指摘。「4つの問いへの、○○の答え」型と「実測、〜か」型を全章の見出しから除去済み。**見出しの読点は並立の対句「得たもの、足りないもの」「覚えておいて、思い出させる」も含め全面禁止**で、2026-08-25 に読点入り見出し8つをすべて改題。本文にも適用し、名詞句の内部に入る「〜の、」型・名詞並立の「〜と、」型・主語直後の律動的な読点を ch04〜ch07 から32件除去（条件の「〜すると、」・連用中止・列挙・あいまい回避に必要な読点は残す）。本文中の列挙の読点は可。ch03 の読点入り見出しは 2026-08-26 に解消済み（節3 はオーナー改題、節5「状態はいつ誰が更新するのか」・節7「パラダイムで変わるものと変わらないもの」に改題）。**指摘され次第このリストに追加し、機械チェックの正規表現にも反映する**。 **読点は本当に必要な場所にだけ打つ（オーナー指示 2026-10-04・常に厳守）**: 主題の「は」「では」「には」の直後、文頭の接続詞（ただし・また・一方・つまり・たとえば・そのため）の後、短い修飾句の後には打たない。打つのは、長い文で節が切り替わる位置（連用中止や「〜が、」の逆接など）と、読み違いを防ぐ位置だけ。オーナーの改稿例:「ここまでの実装を対照実験で検証します。」「1つ目は外部に置いた感情の状態が会話の出来事で変化してターンを跨いで持続し、会話の〜」。 **yomiyasu スキル（nanaism/yomiyasu v1.0.5、~/.claude/skills/yomiyasu）を未レビュー節の推敲に併用する（オーナー指示 2026-10-04）**。適用順位は本書のルール（本リストと改稿傾向）が上。yomiyasu の「同一文末ます3連続」警告はオーナーの文体に反するため追わない。原語併記の括弧は残す。対象は比喩動詞（潰れる・畳まれる・写る・跳ね上がる・解ける・育つ・堆積・満杯・養う・宿命など）、外部状態や決定論を人のように書く擬人化、問いかけで節を進める修辞、体言止め、「〜のです」の念押し。手順: lint で候補→手で書き換え→yomiyasu_diff.py で元にない語・消えた語を点検。また会話での報告にも同リストを適用し、飾りの太字見出しを置かない。実測の報告は「エンジンが正常に動いた」類ではなく、性格別に観測された動きの相違と、他モデルと比べた特徴を主体にする（2026-08-18 オーナー指摘）。
+- 文体: zenn リポジトリの docs/superpowers/writing-style-guide.md に従う。加えてオーナーが AI っぽいと指摘した語・言い回しは会話・原稿とも使用しない。現在のリストは「地図」「刺さる」「地平」「〜として読める」「〜を翻訳する」「割る」（2026-08-25 拡大: 役割に限らず比喩用法全般を禁止。「割り切り」も言い換える。「割り当てる」「割り算」等の通常用法は可）「決め球」「（サイクルを）回す」「（〜に）効く」「（情報を）担ぐ」「（軸が）張る」（2026-08-10 追加。「軸が構成する」等に言い換える）「（外部状態の）器」（2026-08-10 追加。意味もなく暗喩を使わない一般則とともに writing-style-guide.md に明記。正確な語＝外部状態・設定・設計などで書く）「ラン」（2026-08-18 追加。「3回の実行」「3回の平均」「3回とも」で書く。図版ラベルの「run1」も「1回目」とする）「白眉」「系譜」（2026-08-18 追加。評論調の語。labelの列は「並び」「推移」で書く）「浅く沈む」等の量の婉曲表現（2026-08-18 追加。何の量がどう違うかを直接書く一般則とともに明記）「持ち歌」「釘刺し」（2026-08-25 追加。口語の比喩。実測labelの引用は除く）「（解釈の意味の）読み」「〜と読める」（2026-08-25 追加。「この解釈には」「〜を示す」で書く。図の読み方・台本を読む・読み替える等の文字どおりの用法は可）「平叙」（2026-08-26 追加。言語学の術語。「言い切りの文」「普通の文」で書く）「（状態が言葉に）透ける」「（応答に）滲む」（2026-08-27 追加。状態と応答の関係は「反映される」「現れる」で書く。ch4〜ch7 の7箇所を修正済み）「（感情・軸が）立つ」「立ち上がる」（2026-09-22 追加。値が生じる・高くなる意味の比喩。「生じる」「上がる」「現れる」「値が入る」で書き、概念の生成は「構成する」。「主張を立てる」「見込みを立てる」「苛立ち」の通常用法は可。ch4〜ch7 の23箇所を修正済み）。「（量・相当の意味の）ぶん」（2026-10-04 追加。「20ターン分」「注入する分」のように「分」と書く。「90分が経過した分」のように時間の「分」と並んで紛らわしい箇所は「ため」等に言い換える）「この本」（2026-10-04 追加。「本書」と書く）。**短い句・見出しに律動目的の読点を挟まない・読点を多用しない**（2026-08-25 オーナー指摘。「4つの問いへの、○○の答え」型と「実測、〜か」型を全章の見出しから除去済み。**見出しの読点は並立の対句「得たもの、足りないもの」「覚えておいて、思い出させる」も含め全面禁止**で、2026-08-25 に読点入り見出し8つをすべて改題。本文にも適用し、名詞句の内部に入る「〜の、」型・名詞並立の「〜と、」型・主語直後の律動的な読点を ch04〜ch07 から32件除去（条件の「〜すると、」・連用中止・列挙・あいまい回避に必要な読点は残す）。本文中の列挙の読点は可。ch03 の読点入り見出しは 2026-08-26 に解消済み（節3 はオーナー改題、節5「状態はいつ誰が更新するのか」・節7「パラダイムで変わるものと変わらないもの」に改題）。**指摘され次第このリストに追加し、機械チェックの正規表現にも反映する**。 **読点は可能な限り排除する（オーナー指示 2026-10-04、2026-10-05 強化・常に厳守）**: 連用中止（「変化し、持続し、」）の読点も原則打たず、長い文は文を分ける。残すのは並列の項目の区切りと読み違いを防ぐ位置と原文訳の引用の中だけ。以下は 2026-10-04 時点の記述: 主題の「は」「では」「には」の直後、文頭の接続詞（ただし・また・一方・つまり・たとえば・そのため）の後、短い修飾句の後には打たない。打つのは、長い文で節が切り替わる位置（連用中止や「〜が、」の逆接など）と、読み違いを防ぐ位置だけ。オーナーの改稿例:「ここまでの実装を対照実験で検証します。」「1つ目は外部に置いた感情の状態が会話の出来事で変化してターンを跨いで持続し、会話の〜」。 **yomiyasu スキル（nanaism/yomiyasu v1.0.5、~/.claude/skills/yomiyasu）を未レビュー節の推敲に併用する（オーナー指示 2026-10-04）**。適用順位は本書のルール（本リストと改稿傾向）が上。yomiyasu の「同一文末ます3連続」警告はオーナーの文体に反するため追わない。原語併記の括弧は残す。対象は比喩動詞（潰れる・畳まれる・写る・跳ね上がる・解ける・育つ・堆積・満杯・養う・宿命など）、外部状態や決定論を人のように書く擬人化、問いかけで節を進める修辞、体言止め、「〜のです」の念押し。手順: lint で候補→手で書き換え→yomiyasu_diff.py で元にない語・消えた語を点検。また会話での報告にも同リストを適用し、飾りの太字見出しを置かない。実測の報告は「エンジンが正常に動いた」類ではなく、性格別に観測された動きの相違と、他モデルと比べた特徴を主体にする（2026-08-18 オーナー指摘）。
 - **オーナー改稿から抽出した文体傾向（2026-08-26・ch3節3の全面改稿の diff から。以降の執筆・修正に適用）**:
   1. 問いを立てて後から答える修辞構造より、「〜という記録／規則を持つことで〜を可能にします」という機能と目的の直接記述を好む
   2. 欠如シナリオの反復（「これがなければ〜になる」を項目ごとに繰り返す型）は削り、簡潔な機能説明に一本化する
@@ -66,6 +66,8 @@
   11. **本文に括弧でリポジトリのパスを書かない（2026-09-22・ch4 レビュー）**: 「指示文（examples/system-prompt-snippet.md）」のような括弧書きのパスを本文から外す。所在を示す必要があれば「affectusリポジトリのexamples/evaluationにあります」のような独立した1文にする。コードブロックの見出しのパスは可
   12. **状態の値の言い方（2026-09-22）**: 「両価」「両価的な状態」は使わず「対極の感情が両立した状態」「対極の両立」。値が高いことを「立つ」「立っている」「立ち上がる」と言わず「強い」「上がる」「生じる」で書く（NG語彙リスト参照）
   13. **実測の節は「検証の目的と方法」「検証結果」の2節に分ける（2026-09-22、2026-10-04 改訂）**: 問いかけ型の見出し（「状態は応答に反映されるか」等）はやめ、全モデル章で「## 検証の目的と方法」と「## 検証結果」に統一。結果の節は「1つ目の目的、状態の側」「2つ目の目的、応答の側」「3つ目の目的、性格による違い」の順に並べる。節の冒頭に検証の目的を先に書く（本の関心→この実験で測る問い、の順。得られた所見を目的として据えてよい）。後続章は「検証の目的は第4章の3つと同じ」と引き継ぐ
+  14. **検証結果は目的ごとに結論を先に書く（2026-10-05）**: 「まず1つ目の目的である〜について見ます。」の直後に「結論として〜」を置き、図と詳細はその後。節の冒頭は「それでは〈モデル〉をベースとした感情モデルの検証結果を見ていきます。」。章末の節は「## まとめ：〈型〉で得たものと足りないもの」
+  15. **affectus の名前はリポジトリの紹介だけ（2026-10-05）**: 本文と図では「感情エンジン」と書く（コマンド例と設定ファイルのパスは除く）。比較条件は「感情エンジンあり」「感情エンジンなし」と省略せずに書き、数値の対比は「感情エンジンありが0.24で感情エンジンなしが0.34」のように何と何かを明示する
 - **脚注の運用（全体方針・オーナー確定 2026-08-09・ch2 レビューで確立）**: 特定の文献に依拠する事実主張（論争の経緯・引用・意訳・理論の定義など）の初出に脚注を付ける。形式は「著者 (年). DOI または URL」。書誌の詳細は章末の参考文献リストが持ち、脚注は主張と出典の対応付けに徹する。同一文献が複数の主張の根拠になる場合は、同じ脚注ラベルを複数箇所から参照する形で再利用してよい（Zenn は同一ラベルの複数参照に対応）。意訳した場合は脚注内に原文の該当表現を示す。「〜と指摘しています」「〜と書いています」など文献の記述を伝聞形で紹介する箇所には、原文を脚注に入れる（オーナー指示 2026-08-10）。**原文を訳してそのまま示す部分は鉤括弧「」で括り、引用であることを本文上も明示する（オーナー指示 2026-08-26・全体適用）**。地の文に溶かした要約・言い換えには鉤括弧を使わない（鉤括弧＝引用の合図と紛れるため。強調目的の鉤括弧も引用と紛れる位置では避ける）。人名の単なる紹介には付けないが、特定の理論・論文への言及には付ける。既存章への遡及適用は各章のオーナーレビュー時に行う。
   - **記法はインライン `^[...]` ではなく参照形式（オーナー指示 2026-08-09）**: 本文には `[^ラベル]` の参照だけを書き、定義 `[^ラベル]: ...` はファイル最後尾（参考文献リストの後）にまとめる。本文ソースの可読性のため。ラベルは連番でなく `[^tracy2011]` のような意味のある名前にする（挿入時の振り直しを避ける）。
 - 進め方: Phase 2 で本全体の章構成を確定し、以降は**全章それぞれ**で storyboarding → analysis → crafting を章単位で実施する。

diff --git a/.cadenza/chapters/ch04.md b/.cadenza/chapters/ch04.md
@@ -127,3 +127,13 @@
 - 温度は「Temperature」と表記（オーナー指示）。
 - 読点の削減（オーナー指示・state.md とメモリーに常時ルールとして登録）: 主題の「は」直後、文頭の接続詞の後、短い修飾の後を削除し、機械削減で不自然になった箇所（「一方称賛から」等）は「一方で」に直し、長い主題で区切りが要る箇所は戻した。読点の数は ch4 検証結果以降 76→46、ch5 210→約140、ch6 264→約180、ch7 149→約120。
 - 点検: NG語彙ゼロ（ch7 の「寄せた」を「任せた」に）、孤立脚注ゼロ。yomiyasu の残る指摘は「ます」の連続と意味を担う否定のみ。
+
+### 2026-10-05 オーナー改稿（検証結果冒頭・まとめ見出し）とコメント4件への対応、全章への適用
+
+コメント:「まず結論を書く」×3、「affectusの名前はリポジトリの紹介だけにとどめ本書では『感情エンジン』に統一する」、「省略せずに感情エンジンあり、とかくこと」、「0.24対0.34は何と何の対比？」、「読点が多い。まだまだチェックが甘い。とにかく可能な限り読点を排除しろ」。
+- ch4〜ch7 の検証結果を、オーナーの組み方（節冒頭の一文→目的ごとに「〜について見ます」→「結論として〜」→図と詳細）に揃えて書き直した。目的ごとに結論を先に置いたので、ch4 末尾の「3つの目的に対する結果をまとめます」段落は重複のため削除。
+- affectus→感情エンジン: 本文の全出現を置換（ch4 冒頭のリポジトリ紹介、コマンド例、設定ファイルのパスは除く）。図の凡例と注記（ch04/05/06-plots.py）も「(感情エンジンあり)」「(感情エンジンなし)」に変えてアーカイブのデータで再生成。図の注記にあった NG「立ちます」2箇所と二重括弧も修正。
+- 「あり／なし」を「感情エンジンあり／感情エンジンなし」に、数値の対比を「感情エンジンありが0.24で感情エンジンなしが0.34」の形に統一。
+- 見出し「まとめ：〈型〉で得たものと足りないもの」を ch5〜ch7 に追随。
+- 読点: 検証結果は手で書き直して最小化。それ以外の節はひらがな直後の読点を機械的に削除したうえで通読し、並列の区切り（「設計への落とし込み、実装、検証」「みじめさ、抑うつ」「望ましさ、称賛性、魅力」等）と対になった句の区切り（「苦悩が、他者の〜からは非難が」等）を戻した。ch7 の原文訳の引用「感情は、世界への反応ではなく、世界の構成である」は前回のパスで読点が欠けていたので原形に戻した。
+- ルールを state.md の改稿傾向 14・15 に登録、読点ルールを強化（メモリーも更新）。
